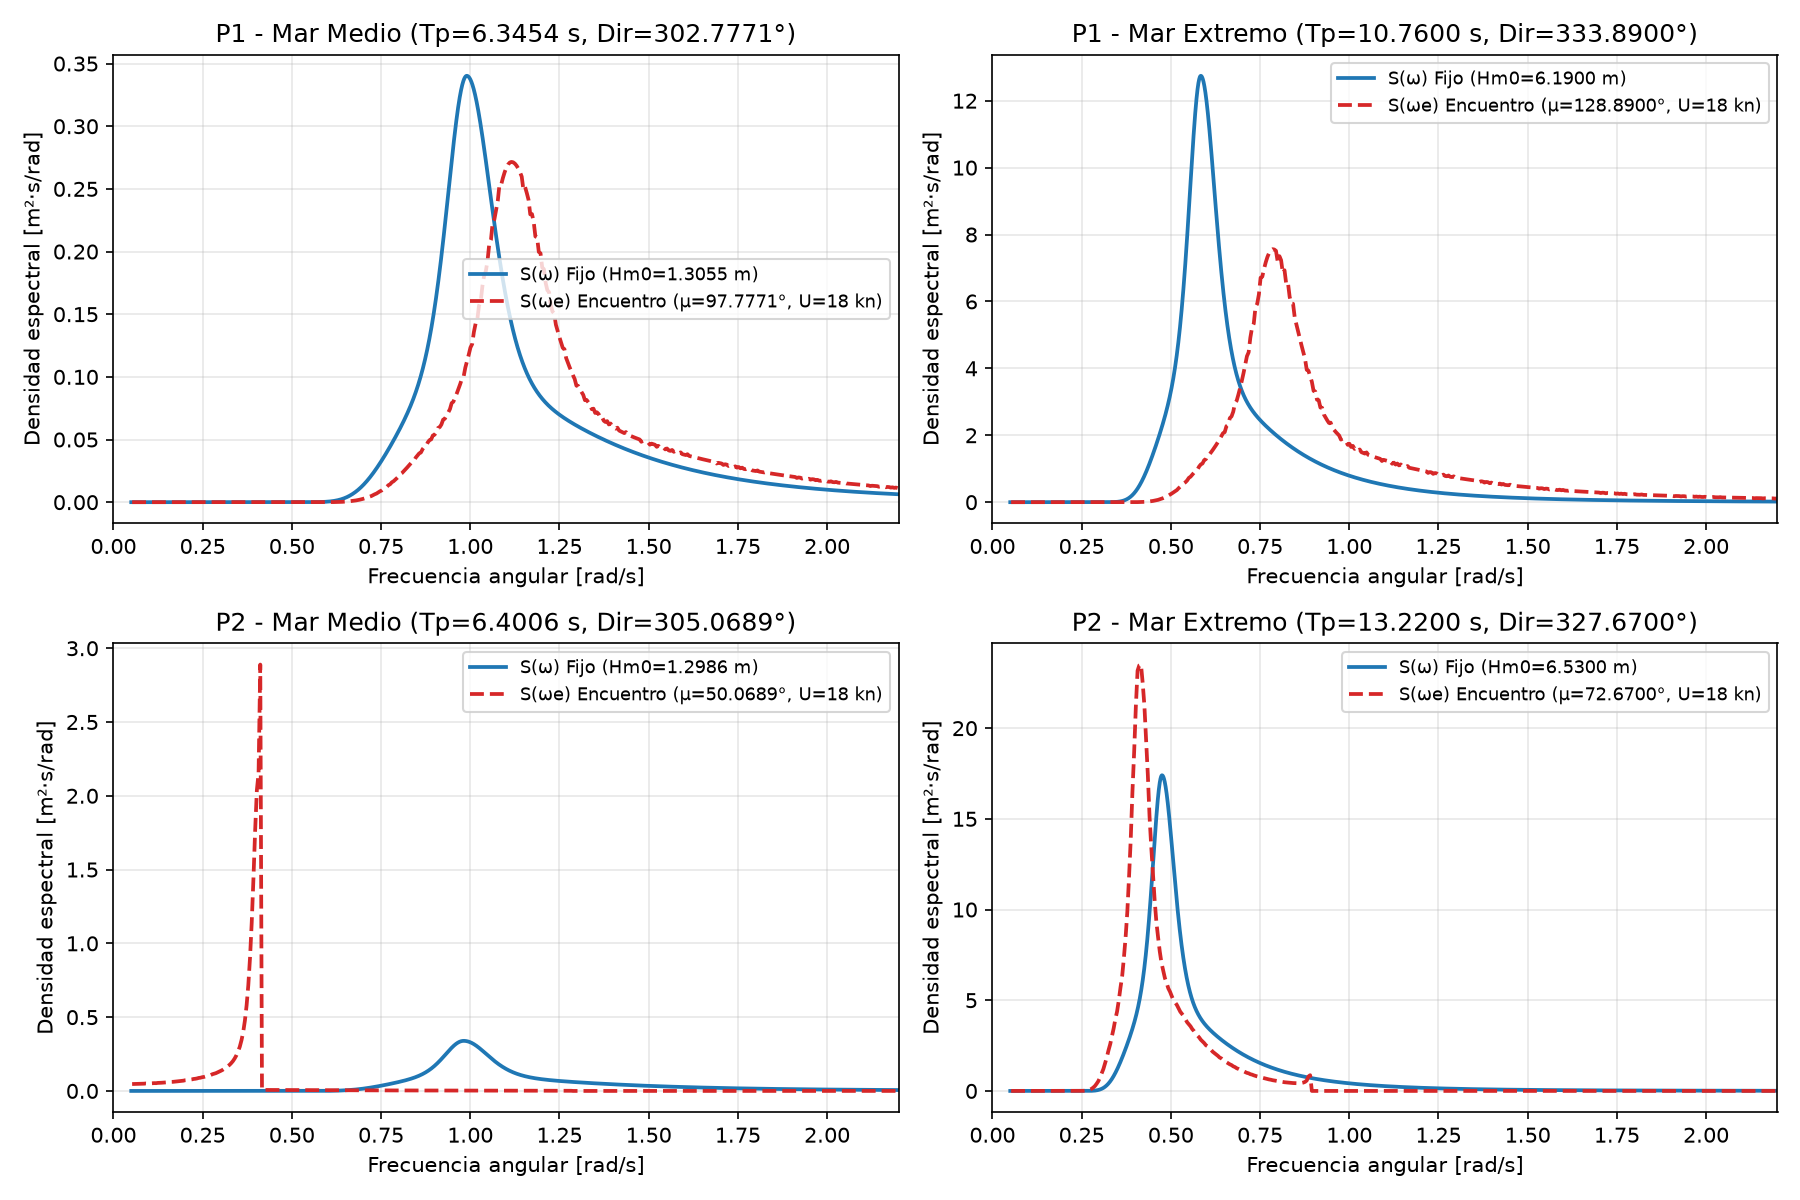
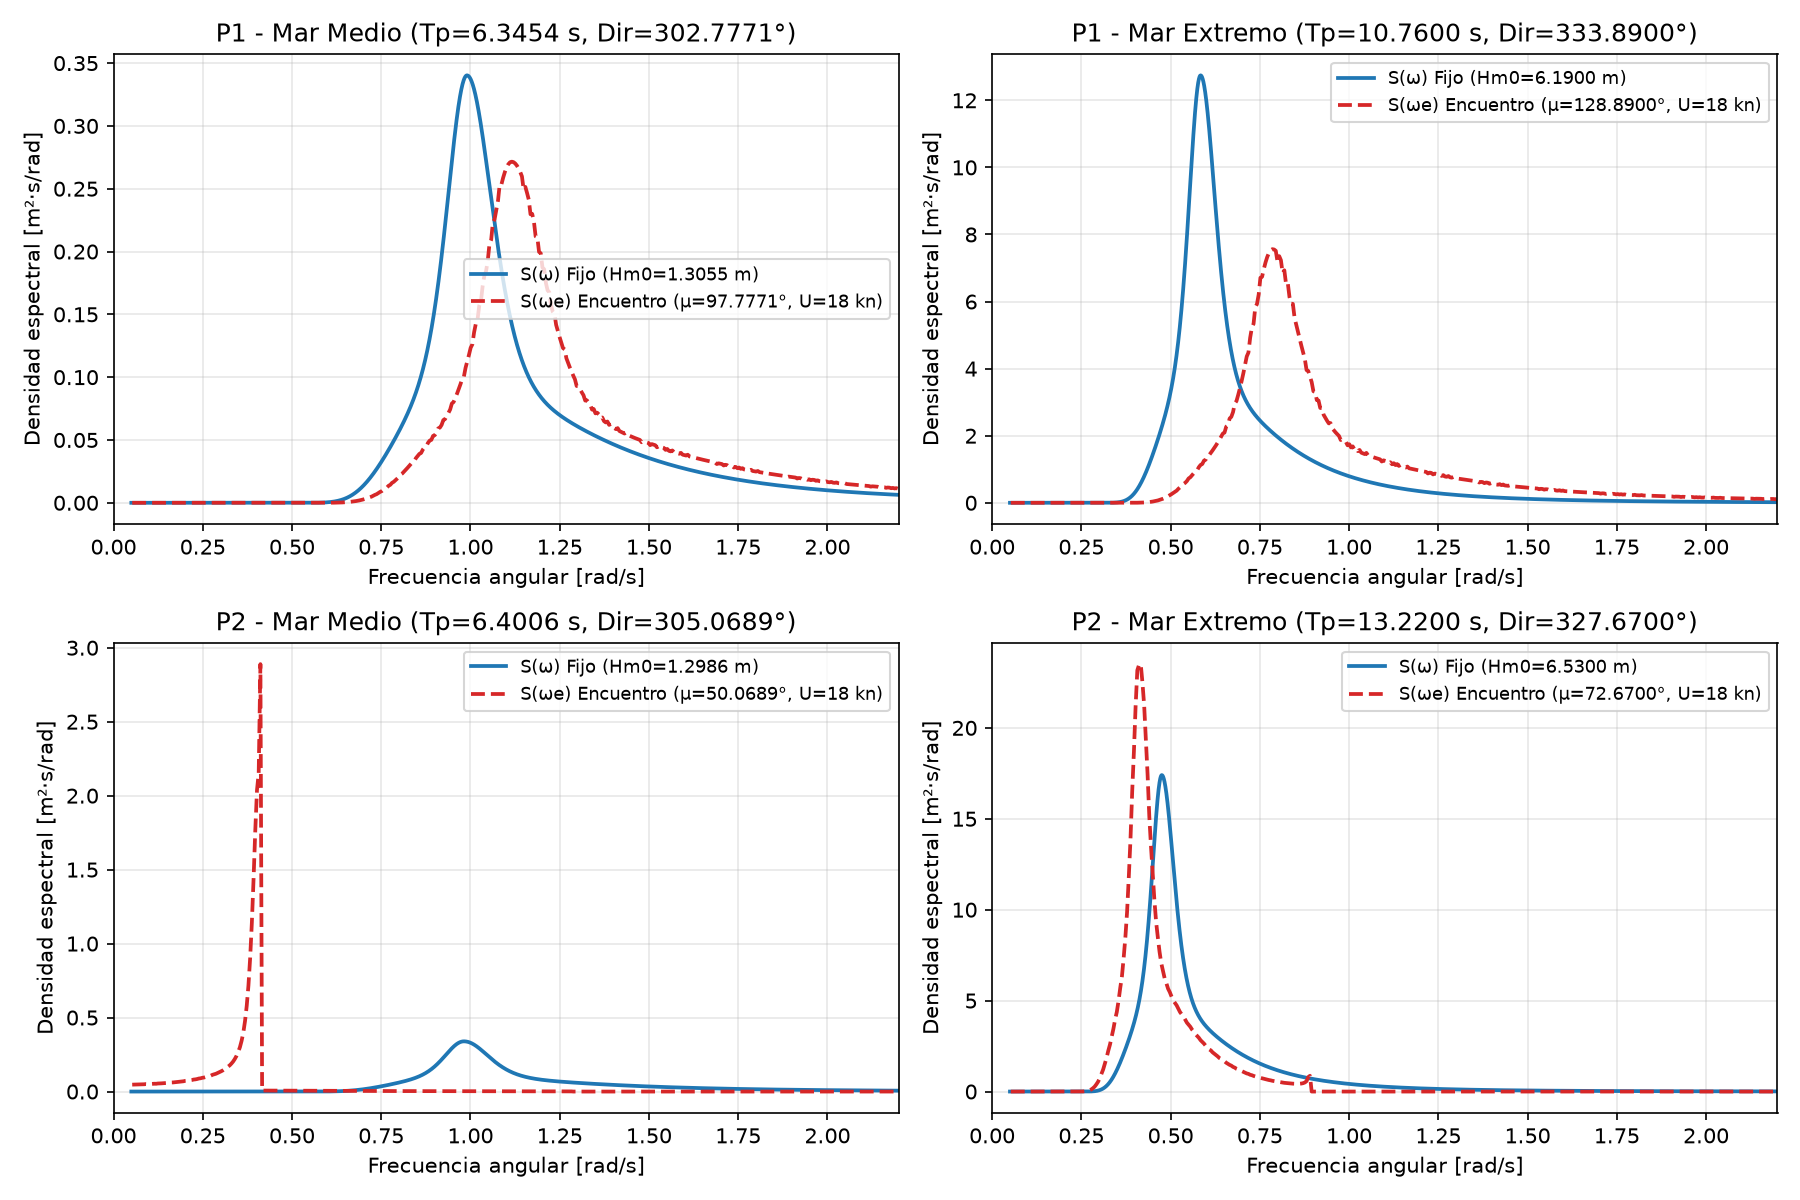
Update

diff --git a/sea-state-analysis.py b/sea-state-analysis.py
@@ -287,6 +287,7 @@ we_grid = np.linspace(0.05, 2.0, 450)
 we = 0.5 * (we_grid[:-1] + we_grid[1:])
 
 resultados = []
+espectros_resp = {}
 
 for nombre, d in escenarios.items():
     punto = nombre.split(" - ")[0]
@@ -356,7 +357,34 @@ for nombre, d in escenarios.items():
         ax.grid(True, which="minor", alpha=0.15, ls=":")
         plt.tight_layout()
         plt.savefig(f"step3_resp_{slug_esc}_{dof_slug}.png", dpi=200)
+        plt.close(fig)
+
+    espectros_resp[nombre] = (S_resp_h, S_resp_p, S_resp_r)
+
+for punto, esc_list, out_name in [
+    ("Punto 1", ["P1 - Mar Medio", "P1 - Mar Extremo"], "step3_espectros_respuesta_p1.png"),
+    ("Punto 2", ["P2 - Mar Medio", "P2 - Mar Extremo"], "step3_espectros_respuesta_p2.png"),
+]:
+    fig, axes = plt.subplots(2, 3, figsize=(15, 8), sharex=True)
+    for row_idx, esc in enumerate(esc_list):
+        S_h, S_p, S_r = espectros_resp[esc]
+        for col_idx, (S_resp, dof_name, ylabel, color) in enumerate([
+            (S_h, "Heave", "S_z [m²·s/rad]",   "#9467bd"),
+            (S_p, "Pitch", "S_θ [deg²·s/rad]", "#2ca02c"),
+            (S_r, "Roll",  "S_φ [deg²·s/rad]", "#ff7f0e"),
+        ]):
+            ax = axes[row_idx, col_idx]
+            ax.plot(we, S_resp, color=color, lw=1.8)
+            ax.fill_between(we, S_resp, color=color, alpha=0.2)
+            ax.set_title(f"{esc} - {dof_name}", fontsize=11)
+            ax.set_ylabel(ylabel, fontsize=10)
+            ax.set_xlim(0.0, 1.6)
+            ax.grid(True, alpha=0.3)
+            if row_idx == 1:
+                ax.set_xlabel("Frecuencia de encuentro ωe [rad/s]", fontsize=10)
+    plt.tight_layout()
+    plt.savefig(out_name, dpi=200, bbox_inches="tight")
+    plt.close(fig)
 
 df_res = pd.DataFrame(resultados)
 print(df_res.to_string(index=False))
-plt.show()
